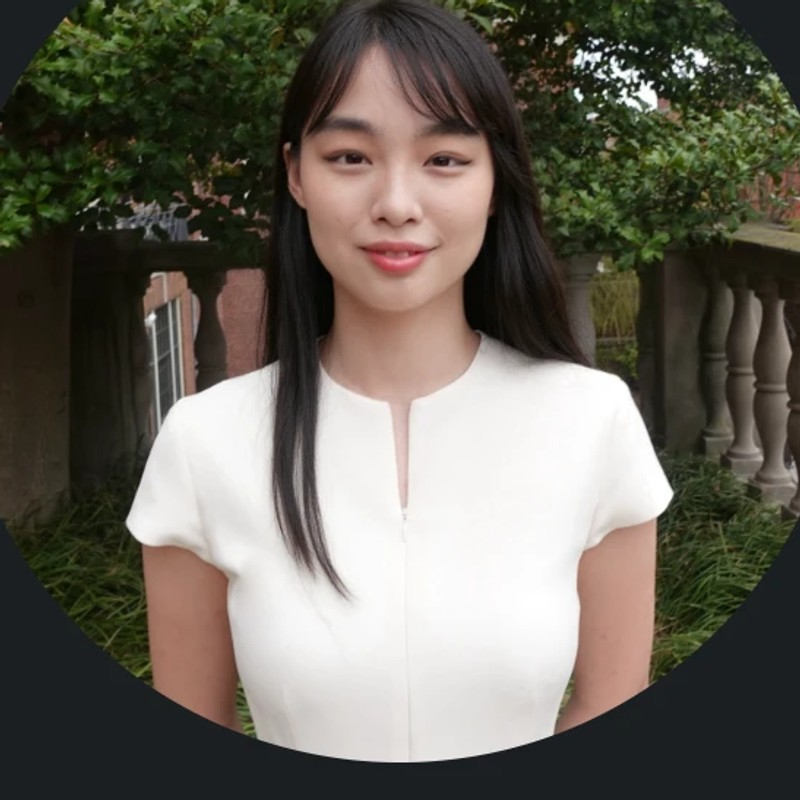
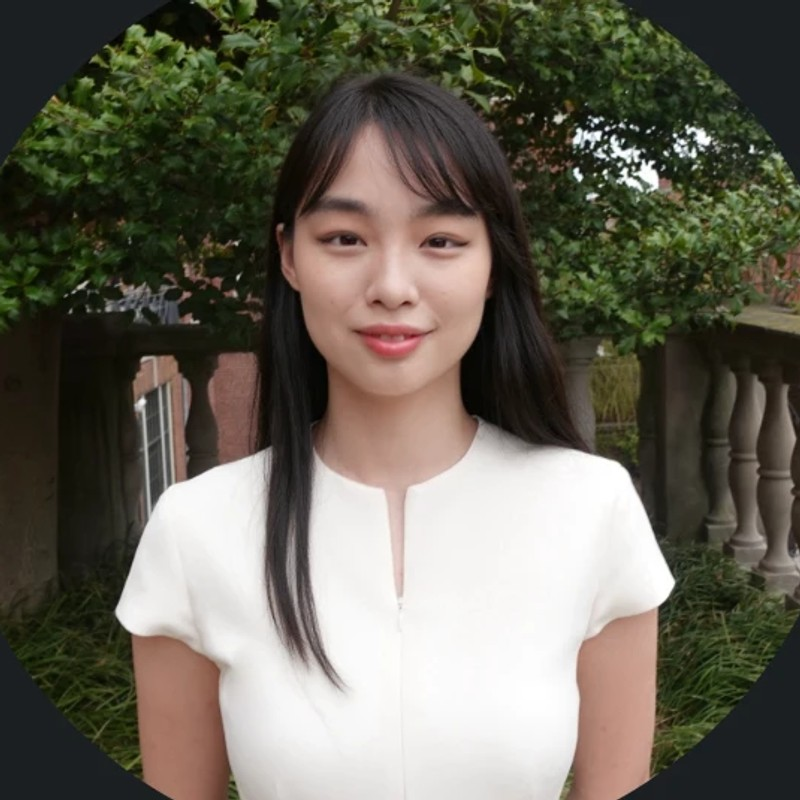
Move Missy to second, recut her headshot, derive the board count
Vice President sits directly after President rather than last.

Her headshot had a dark crescent along one edge: the circle detector put the
centre 75px too low, because the bright dress and grass in the lower half keep
those rows wide and drag the estimate down. Recut from the circle's measured
bounds. Also widens the script's safety margin from 4% to 7%, which absorbs
smaller centring errors of the same kind.

The team page said "led by eight students"; it now counts the array so it
cannot go stale again.

diff --git a/data/team.ts b/data/team.ts
@@ -31,6 +31,14 @@ export const team: TeamMember[] = [
     bio: "Originally from Charlottesville, Virginia, Max Moore is pursuing an Sc.B. in Applied Math-Economics at Brown University. Max joined BDIG in September 2024. He will intern with Jefferies as an investment banking analyst in Houston in Summer 2027.",
   },
   {
+    slug: "missy-liu",
+    name: "Missy Liu",
+    title: "Vice President",
+    // TODO: add hometown, then restore the "Originally from [Hometown]," opener
+    // used by every other bio.
+    bio: "Missy Liu is pursuing an A.B. in Economics and an A.B. in International Affairs at Brown University. Missy joined BDIG in September 2023. She interned with Goldman Sachs in their Fixed Income group last summer and will return to their Private Equity group after graduation.",
+  },
+  {
     slug: "matt-williamson",
     name: "Matt Williamson",
     title: "Chief Operating Officer",
@@ -71,13 +79,5 @@ export const team: TeamMember[] = [
     name: "James Kershaw",
     title: "Chief Technology Officer",
     bio: "Originally from Boulder, Colorado, James Kershaw is pursuing an Sc.B. in Applied Math-Economics and an A.B. in Public Health at Brown University. James joined BDIG in September 2024.",
-  },
-  {
-    slug: "missy-liu",
-    name: "Missy Liu",
-    title: "Vice President",
-    // TODO: add hometown, then restore the "Originally from [Hometown]," opener
-    // used by every other bio.
-    bio: "Missy Liu is pursuing an A.B. in Economics and an A.B. in International Affairs at Brown University. Missy joined BDIG in September 2023. She interned with Goldman Sachs in their Fixed Income group last summer and will return to their Private Equity group after graduation.",
   },
 ];

diff --git a/app/team/page.tsx b/app/team/page.tsx
@@ -26,8 +26,9 @@ export default function TeamPage() {
           The executive board.
         </h1>
         <p className="mt-6 max-w-2xl text-[1.0625rem] leading-relaxed text-ink-soft">
-          BDIG is led by eight students who set the curriculum, run the weekly
-          pitch sessions, and manage the book. Select any member to read more.
+          BDIG is led by {team.length} students who set the curriculum, run the
+          weekly pitch sessions, and manage the book. Select any member to read
+          more.
         </p>
       </Container>
 
